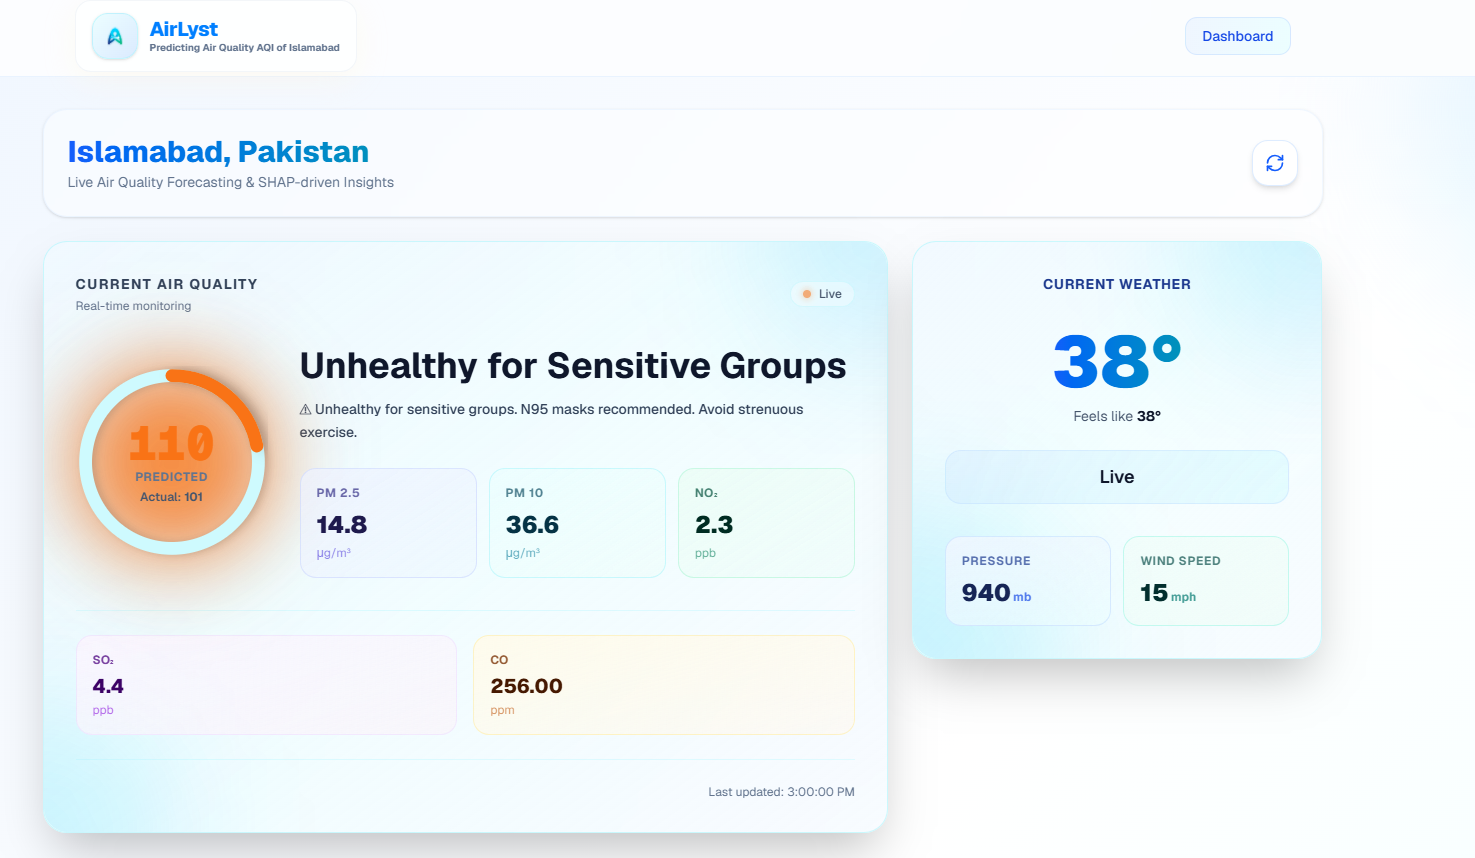
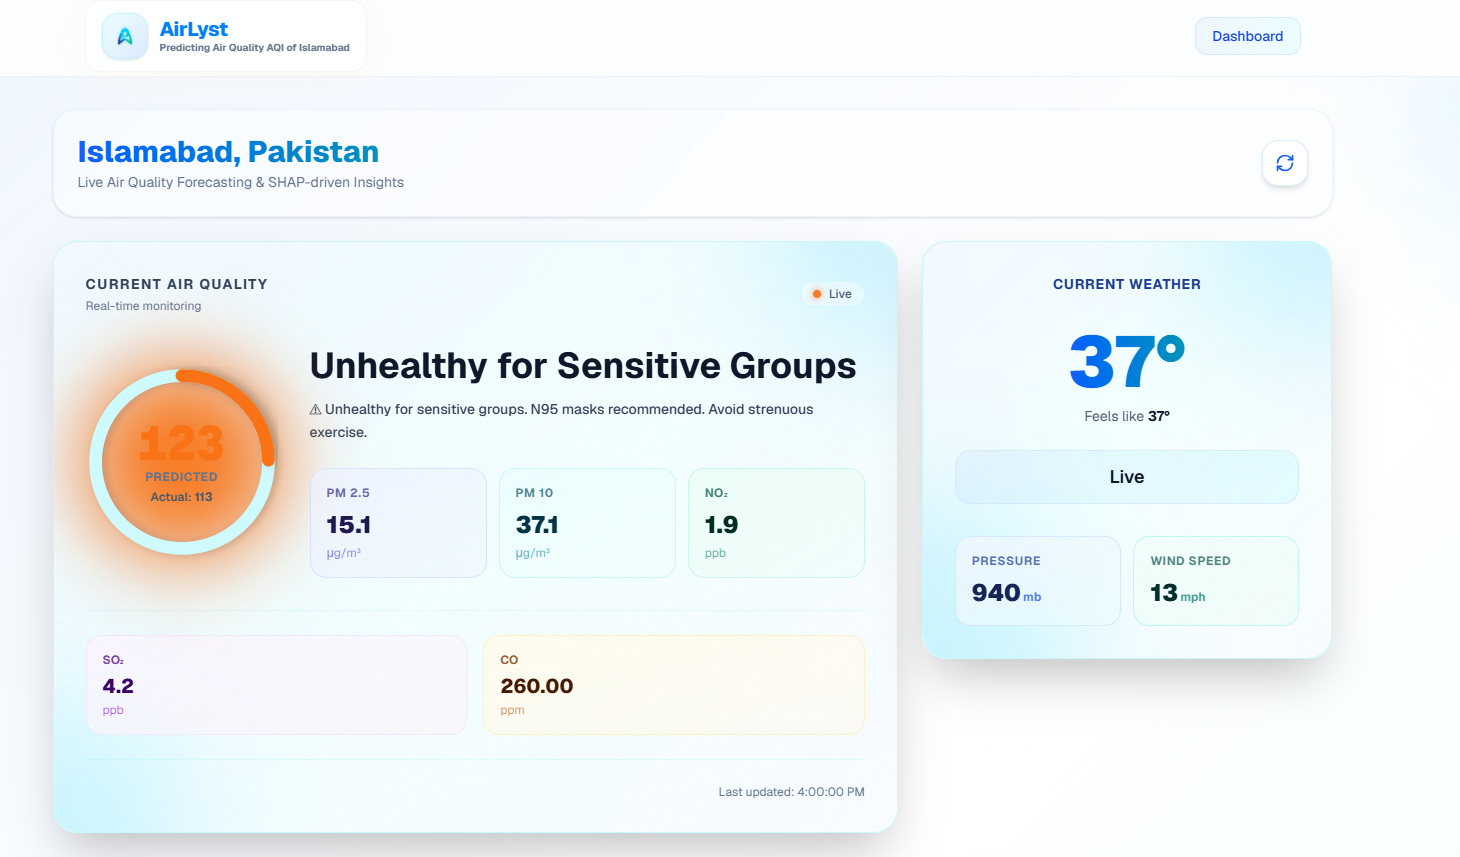
AQI Predictor

diff --git a/backend/src/api/routes/forecast.py b/backend/src/api/routes/forecast.py
@@ -12,6 +12,7 @@ if str(BACKEND_DIR) not in sys.path:
 # Import run_inference function and get_aqi_status function
 from src.ml.inference import run_inference
 from src.ml.training import get_aqi_status
+from src.utils.config import settings
 
 # Initialize the router
 router = APIRouter(
@@ -78,33 +79,57 @@ def get_forecast():
                     feat_vals = [s[feat] for s in metrics["shaps"] if feat in s]
                     avg_shaps[feat] = sum(feat_vals) / len(feat_vals)
 
-            # Map the top SHAP features of the LightGBM model to friendly descriptions
+            # Dictionary mapping for clean lookup (no complex if-elif chain)
+            FEATURE_MAP = {
+                "lag_1h": "remaining pollution from previous hours",
+                "lag_3h": "remaining pollution from previous hours",
+                "lag_24h": "remaining pollution from previous hours",
+                "rolling": "fine dust and smoke particles",
+                "pm2_5": "fine dust and smoke particles",
+                "pm10": "fine dust and smoke particles",
+                "nitrogen_dioxide": "traffic exhaust and vehicle smoke",
+                "sulphur_dioxide": "factory/industrial emissions",
+                "carbon_monoxide": "smoke from burning fuels",
+                "temperature_2m": "hot weather trapping the dirty air",
+                "wind_speed_10m": "slow wind failing to clear the air"
+            }
+
             reasons = []
             if avg_shaps:
-                # Sort features by absolute impact
+                # Sort features by absolute impact and take top 2 drivers
                 sorted_feats = sorted(avg_shaps.items(), key=lambda x: abs(x[1]), reverse=True)
-                
-                # Take top 2 drivers
                 for feat_name, shap_val in sorted_feats[:2]:
-                    if "lag_1h" in feat_name or "lag_3h" in feat_name or "lag_24h" in feat_name:
-                        reasons.append("pollution already floating in the air from previous hours")
-                    elif "rolling" in feat_name or "pm2_5" in feat_name or "pm10" in feat_name:
-                        reasons.append("soot and dust particles suspended in the atmosphere")
-                    elif "nitrogen_dioxide" in feat_name:
-                        reasons.append("smoke and exhaust fumes from traffic traffic")
-                    elif "sulphur_dioxide" in feat_name:
-                        reasons.append("harmful gases emitted from local industries")
-                    elif "carbon_monoxide" in feat_name:
-                        reasons.append("carbon monoxide gas from burning fuels")
-                    elif "temperature_2m" in feat_name:
-                        reasons.append("warm weather trapping dirty air near the ground")
-                    elif "wind_speed_10m" in feat_name:
-                        reasons.append("still winds that fail to blow away the dust")
+                    # Find matching description from dictionary
+                    matched = next((val for key, val in FEATURE_MAP.items() if key in feat_name), None)
+                    if matched:
+                        reasons.append(matched)
 
             if not reasons:
-                reasons.append("stable atmospheric conditions and standard urban emissions")
+                reasons.append("normal weather and everyday city emissions")
 
-            explanation = f"Driven mainly by " + " combined with ".join(reasons) + "."
+            # --- DYNAMIC GEMINI LLM INTEGRATION ---
+            explanation = None
+            if settings.GEMINI_API_KEY and settings.GEMINI_API_KEY.strip():
+                try:
+                    import google.generativeai as genai
+                    genai.configure(api_key=settings.GEMINI_API_KEY.strip())
+                    model = genai.GenerativeModel('gemini-pro')
+                    
+                    # Design a highly structured prompt to get a clean, friendly 1-sentence response
+                    prompt = (
+                        f"Based on the air quality drivers: {', '.join(reasons)}. "
+                        f"Write a friendly, simple 1-sentence summary of what is causing the air quality. "
+                        f"Do not use markdown, do not use bullet points, do not exceed 15 words, and do not use greeting words."
+                    )
+                    response = model.generate_content(prompt)
+                    explanation = response.text.strip()
+                except Exception as e:
+                    # Fallback if API key is invalid or request fails
+                    explanation = None
+
+            # Standard simple fallback logic if Gemini is offline, key is missing, or package is not installed:
+            if not explanation:
+                explanation = f"Driven mainly by " + " combined with ".join(reasons) + "."
 
             # Calculate time range for this day
             day_items = [item for item in forecast_list if item["time"].startswith(date)]

diff --git a/backend/src/utils/config.py b/backend/src/utils/config.py
@@ -41,6 +41,9 @@ class Settings:
             self.WEATHER_URL = os.getenv("WEATHER_URL")
             self.AIR_URL = os.getenv("AIR_URL")
             self.FORECAST_URL = os.getenv("FORECAST_URL")
+
+            # Gemini Key
+            self.GEMINI_API_KEY = os.getenv("GEMINI_API_KEY")
             
             # 3. CRITICAL CHECKS
             if not self.HOPSWORKS_KEY:
